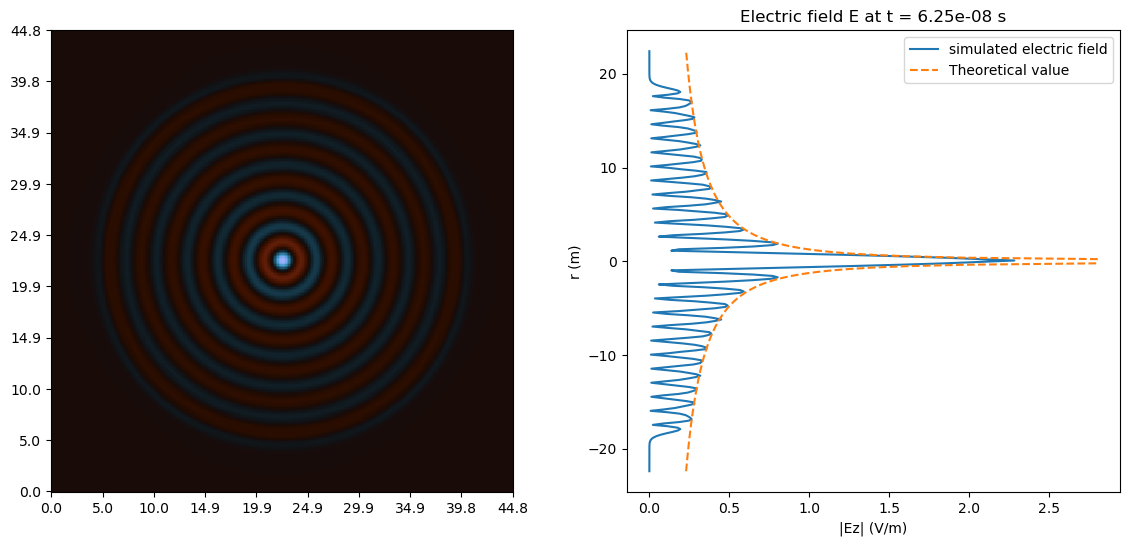
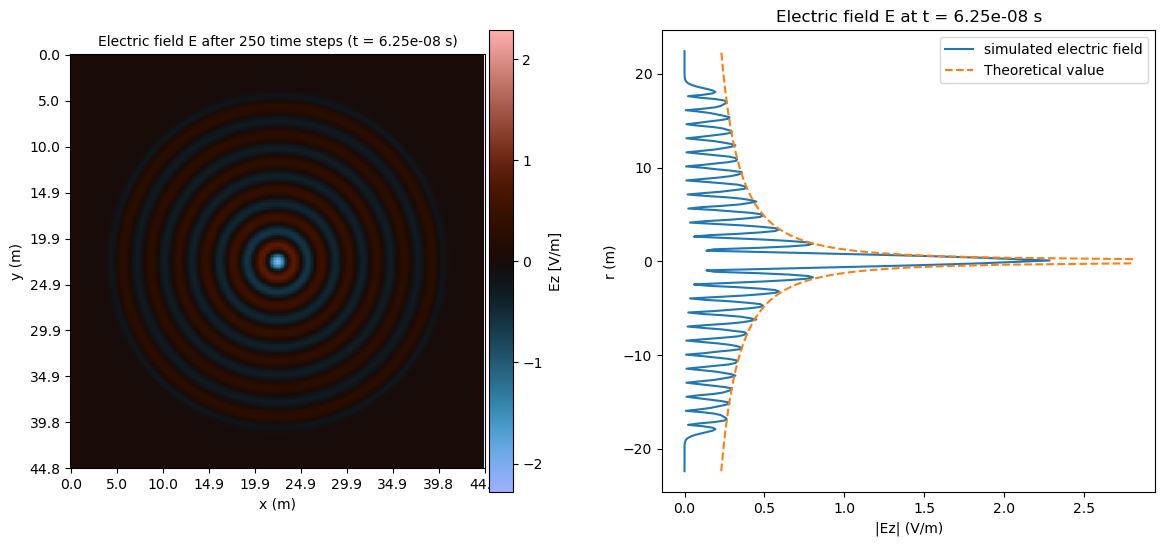
added support for rendering an image at a certain time step

diff --git a/2D/yee_FDTD_2D.py b/2D/yee_FDTD_2D.py
@@ -1,4 +1,5 @@
-from typing import TYPE_CHECKING
+from typing import TYPE_CHECKING, Tuple
+
 
 import numpy as xp
 import numpy as np
@@ -37,6 +38,11 @@ from tqdm import tqdm
 from pyqtgraph.Qt import QtCore
 import pyqtgraph.exporters
 
+from matplotlib.image import AxesImage
+from matplotlib.axes import Axes
+from matplotlib import pyplot as plt
+from matplotlib.colors import LogNorm, Normalize
+
 import os
 
 
@@ -46,7 +52,8 @@ u0: float = 1.25663706127e-6  # H/m
 C_VIDE: float = 1 / math.sqrt(e0 * u0)  # m/s
 
 # material color
-MATERIAL_COLOR = (92, 20, 122, 255/10) # purple
+MATERIAL_COLOR = (15, 87, 9, 5)  # purple
+
 
 def forward_E(
     E: xp.ndarray,
@@ -285,20 +292,19 @@ def simulate_and_animate(
     """
     # check the norm type
     match norm_type:
-        # TODO : add log and abs lin
         case "log":
             # logarithmic scale from 0 to 1
-            scale = np.logspace(-2, 0, 512)
+            scale = np.logspace(np.log10(min_color_value), 0, 255)
             show_abs = True
             levels = (0, max_color_value)
             color_map_name = "magma"
         case "lin" | "linear":
-            scale = np.linspace(0, 1, 512)
+            scale = np.linspace(0, 1, 255)
             show_abs = False
             levels = (-max_color_value, max_color_value)
             color_map_name = "berlin"
         case "abslin":
-            scale = np.linspace(0, 1, 512)
+            scale = np.linspace(0, 1, 255)
             show_abs = True
             levels = (0, max_color_value)
             color_map_name = "magma"
@@ -341,7 +347,7 @@ def simulate_and_animate(
     # transform the matplotlib colormap to a pyqtgraph colormap
     base_color_map: pg.ColorMap = pg.colormap.get(color_map_name, source="matplotlib")  # type: ignore
 
-    base_color_map_lookuptable = base_color_map.getLookupTable(nPts=512)
+    base_color_map_lookuptable = base_color_map.getLookupTable(nPts=255)
 
     color_map = pg.ColorMap(
         scale, base_color_map_lookuptable, mapping=pg.ColorMap.MIRROR
@@ -367,7 +373,6 @@ def simulate_and_animate(
             local_rel_permittivity = xp.array(local_rel_permittivity)
         if local_conductivity is not None:
             local_conductivity = xp.array(local_conductivity)
-        
 
     def update(image: pg.ImageItem):
         nonlocal q, frames, E, B_tilde_x, B_tilde_y, timer, plot
@@ -482,17 +487,14 @@ def simulate_and_animate(
 
     if mask is not None:
         material_image = xp.zeros((m_max, m_max, 4), dtype=xp.uint8)
-        material_image[mask,:] = xp.asarray(MATERIAL_COLOR)
+        material_image[mask, :] = xp.asarray(MATERIAL_COLOR)
         mat_im = pg.ImageItem(
             material_image,
             axisOrder="row-major",
         )
         mat_im.setRect(0, 0, 400, 400)
         plot.addItem(mat_im)
-        mat_im.setZValue(10) # put it on top of the other image
-
-
-
+        mat_im.setZValue(10)  # put it on top of the other image
 
     im.setColorMap(color_map)
     timer = QtCore.QTimer()  # type: ignore
@@ -500,3 +502,139 @@ def simulate_and_animate(
     timer.start(min_time_per_frame)
 
     pg.exec()
+
+
+def simulate_and_plot(
+    ax: Axes,
+    dt: float,
+    dx: float,
+    Q: int,
+    m_max: int,
+    current_func: Callable[[int, xp.ndarray], None] | None,
+    norm_type: str = "log",
+    local_conductivity: np.ndarray | None = None,
+    local_rel_permittivity: np.ndarray | None = None,
+    perfect_conductor_mask: np.ndarray | None = None,
+    J0: np.ndarray | None = None,
+    E0: np.ndarray | None = None,
+    B_tilde_x_0: np.ndarray | None = None,
+    B_tilde_y_0: np.ndarray | None = None,
+    use_progress_bar: bool = True,
+    color_bar=True,
+) -> Tuple[AxesImage, np.ndarray]:
+    """
+    Simulate the Yee algorithm and plot the results on the given matplotlib.axes.Axes object.
+
+    Args:
+        dt (float): _description_
+        dx (float): _description_
+        Q (int): _description_
+        m_max (int): _description_
+        current_func (Callable[[int, xp.ndarray], None] | None): _description_
+        norm_type (str, optional): _description_. Defaults to "log".
+        local_conductivity (np.ndarray | None, optional): _description_. Defaults to None.
+        local_rel_permittivity (np.ndarray | None, optional): _description_. Defaults to None.
+        perfect_conductor_mask (np.ndarray | None, optional): _description_. Defaults to None.
+        J0 (np.ndarray | None, optional): _description_. Defaults to None.
+        E0 (np.ndarray | None, optional): _description_. Defaults to None.
+        B_tilde_0 (np.ndarray | None, optional): _description_. Defaults to None.
+        use_progress_bar (bool, optional): _description_. Defaults to True.
+
+    Returns:
+        AxesImage: _description_
+    """
+    # initialize the arrays and move them to the GPU if using cupy
+    E = xp.zeros((m_max, m_max), dtype=xp.float32)
+    B_tilde_x = xp.zeros((m_max, m_max), dtype=xp.float32)
+    B_tilde_y = xp.zeros((m_max, m_max), dtype=xp.float32)
+    J = xp.zeros((m_max, m_max), dtype=xp.float32)
+    if E0 is not None:
+        E = xp.array(E0.copy())
+    if B_tilde_x_0 is not None:
+        B_tilde_x = xp.array(B_tilde_x_0.copy())
+    if B_tilde_y_0 is not None:
+        B_tilde_y = xp.array(B_tilde_y_0.copy())
+    if J0 is not None:
+        J = xp.array(J0.copy())
+    if local_conductivity is not None:
+        local_conductivity = xp.array(local_conductivity)
+    if local_rel_permittivity is not None:
+        local_rel_permittivity = xp.array(local_rel_permittivity)
+    if perfect_conductor_mask is not None:
+        perfect_conductor_mask = xp.array(perfect_conductor_mask)
+
+    match use_progress_bar:
+        case True:
+            steps = tqdm(range(1, Q), unit="step")
+            steps.set_description("Generating image")
+        case False:
+            steps = range(1, Q)
+
+    # compute the electric field after Q time steps
+    for q in steps:
+        step_yee(
+            E,
+            B_tilde_x,
+            B_tilde_y,
+            J,
+            q,
+            dt,
+            dx,
+            local_rel_permittivity,
+            current_func,
+            perfect_conductor_mask,
+            local_conductivity,
+        )
+
+    if using_cupy and not TYPE_CHECKING:
+        E = xp.asnumpy(E)
+    
+    # check the norm type
+    match norm_type:
+        case "log":
+            norm = LogNorm()
+            show_abs = True
+            color_map_name = "magma"
+        case "abslin":
+            norm = Normalize()
+            show_abs = True
+            color_map_name = "magma"
+        case "lin":
+            max_color_value = np.max(np.abs(E))
+            norm = Normalize(vmin=-max_color_value, vmax=max_color_value)
+            show_abs = False
+            color_map_name = "berlin"
+        case _:
+            raise ValueError(f"Unknown norm_type: {norm_type}")
+
+    # plot E as an image
+    if show_abs:
+        E_plot = np.abs(E)
+        color_bar_label = "abs(Ez) [V/m]"
+    else:
+        E_plot = E
+        color_bar_label = "Ez [V/m]"
+
+    im = ax.imshow(
+        E_plot,
+        cmap=color_map_name,
+        norm=norm,
+        interpolation="nearest",
+    )
+
+    plt.colorbar(im, ax=ax, orientation="vertical", pad=0.01, label=color_bar_label)
+
+    ax.set_xticks(
+        np.linspace(0, m_max, 10), np.round(np.linspace(0, (m_max - 1) * dx, 10), 1)
+    )
+    ax.set_yticks(
+        np.linspace(0, m_max, 10), np.round(np.linspace(0, (m_max - 1) * dx, 10), 1)
+    )
+    ax.set_xlabel("x (m)")
+    ax.set_ylabel("y (m)")
+    ax.set_title(
+        f"Electric field E after {Q} time steps (t = {dt * Q:.2e} s)",
+        fontsize=10,
+    )
+
+    return im, E

diff --git a/2D/current_line_validation.py b/2D/current_line_validation.py
@@ -1,12 +1,13 @@
 import numpy as np
 
 from typing import TYPE_CHECKING
-from yee_FDTD_2D import step_yee, e0, u0, C_VIDE, xp, using_cupy
+from yee_FDTD_2D import simulate_and_plot, e0, u0, C_VIDE, xp, using_cupy
 from simu_elements import sinusoïdal_point_source
 
 import matplotlib.pyplot as plt
 
 from tqdm import tqdm
+from matplotlib.axes import Axes
 
 
 # parameters
@@ -44,57 +45,15 @@ print("DELTA_X : ", DELTA_X, "DELTA_T : ", DELTA_T)
 print("C_VIDE : ", C_VIDE)
 
 
-E = xp.zeros((M, M), dtype=xp.float32)
-B_tilde_x = xp.zeros((M, M), dtype=xp.float32)
-B_tilde_y = xp.zeros((M, M), dtype=xp.float32)
-J = xp.zeros((M, M), dtype=xp.float32)
-
-# compute the electric field after M/2 time steps
-for q in tqdm(range(int(Q))):
-    step_yee(
-        E,
-        B_tilde_x,
-        B_tilde_y,
-        J,
-        q,
-        DELTA_T,
-        DELTA_X,
-        None,
-        current_func,
-        None,
-        None,
-    )
-
-if using_cupy and not TYPE_CHECKING:
-    E = xp.asnumpy(E)
-    B_tilde_x = xp.asnumpy(B_tilde_x)
-    B_tilde_y = xp.asnumpy(B_tilde_y)
-    J = xp.asnumpy(J)
-
 # plot E as an image
-fig, (ax1, ax2) = plt.subplots(1, 2, figsize=(14, 6))
+return_value = plt.subplots(1, 2, figsize=(14, 6))
+fig = return_value[0]
+ax1: Axes = return_value[1][0]
+ax2: Axes = return_value[1][1]
 
-# compute min execpt for the center
-E_copy = np.copy(E)
-E_copy[M // 2, M // 2] = 0
-E_max = np.max(np.abs(E_copy))
+im, E = simulate_and_plot(ax1, DELTA_T, DELTA_X, Q, M, current_func, norm_type="lin")
 
-im = ax1.imshow(
-    E,
-    cmap="berlin",
-    interpolation="nearest",
-    vmin=-E_max,
-    vmax=E_max,
-    origin="lower",
-)
-# plt.colorbar(im, location="left")
-plt.title(
-    f"Electric field E after {M // 2} time steps (t = {DELTA_T * Q:.2e} s)"
-)
-
-
-ax1.set_xticks(np.linspace(0, M, 10), np.round(np.linspace(0, TOTAL_X, 10), 1))
-ax1.set_yticks(np.linspace(0, M, 10), np.round(np.linspace(0, TOTAL_X, 10), 1))
+E_max = np.max(np.abs(E))
 
 ax2.plot(
     np.abs(E[M // 2, :]),
